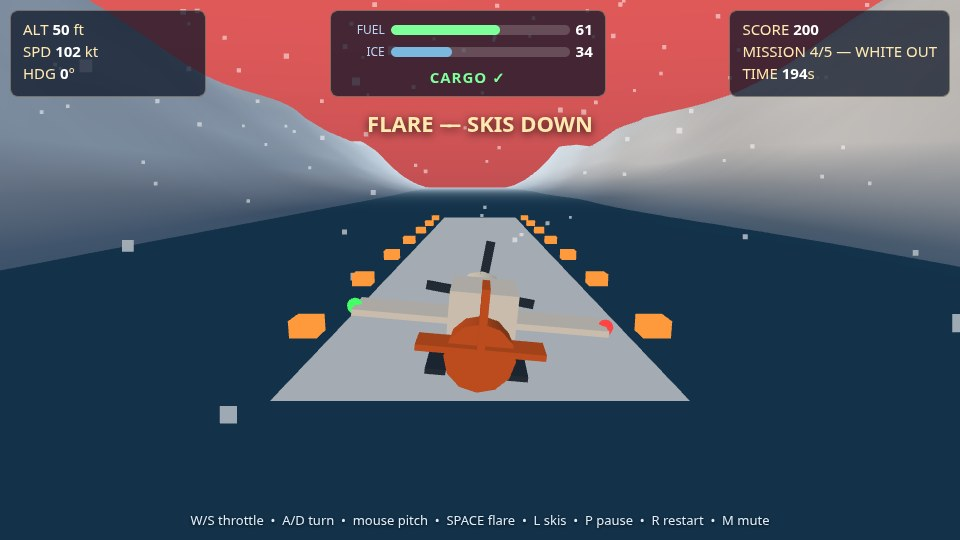
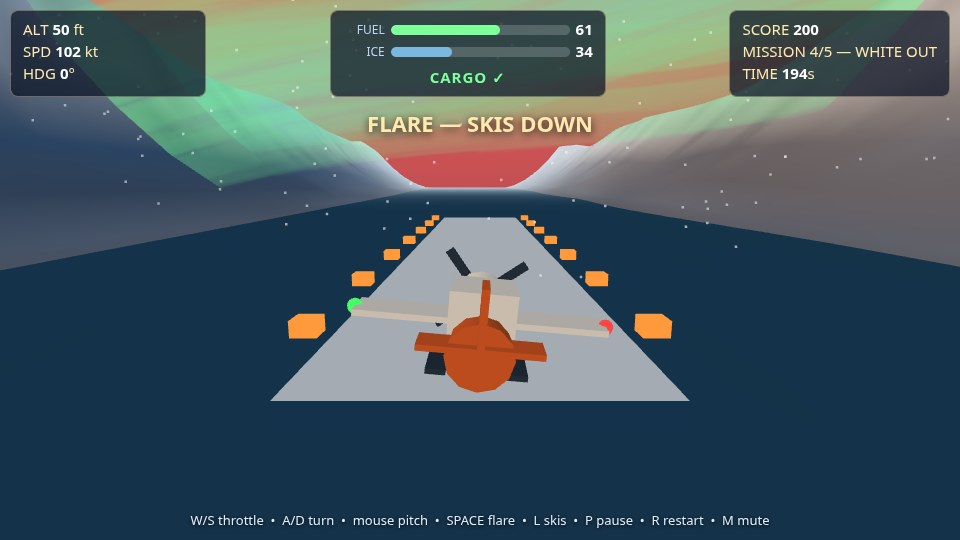
V3 iteration: aurora visible in every shot, fjord walls with strata + dawn light, win card no longer hides the parked plane
- Aurora ribbons now hang ahead of the plane across the flight line
  (was: along it, seen edge-on and invisible) with a wispy alpha
  texture and brighter opacity — visible in title, play, action, win.
- Terrain vertex colours: snow line + rock outcrops, darker strata
  bands, warm sunrise tint on sun-facing slopes, cool blue in shade.
- Win card top-aligned and compact (win-card); parked plane angled
  and visible below it on the ice strip; stale MISSION 5 banner cleared
  in the win staging; HUD top hidden on the win screen (was overlapping
  the card). Snowfall fixed pixel size (was: near-camera flakes blew up
  into giant white squares).
- No mechanic, balance, HUD-layout (play) or control changes; vendor
  three.js untouched. Verify 12/12, held-out bench 4/5.

diff --git a/game/src/render.js b/game/src/render.js
@@ -30,6 +30,42 @@ function makeCloudTexture() {
   return tex;
 }
 
+// Wispy curtain alpha for the aurora ribbons: soft horizontal streaks
+// (fixed positions, so every run paints the same sky) fading out at the
+// top and bottom edges. White with alpha — the material colour tints it.
+function makeAuroraTexture() {
+  const c = document.createElement('canvas');
+  c.width = 256;
+  c.height = 128;
+  const g = c.getContext('2d');
+  g.clearRect(0, 0, 256, 128);
+  for (let i = 0; i < 22; i++) {
+    const x = (i * 67.3) % 256;
+    const y = 34 + ((i * 41.7) % 64);
+    const w = 40 + ((i * 29.1) % 60);
+    const h = 6 + ((i * 13.7) % 10);
+    const a = 0.25 + 0.45 * Math.abs(Math.sin(i * 1.7));
+    const grad = g.createRadialGradient(x, y, 0, x, y, w);
+    grad.addColorStop(0, `rgba(255,255,255,${a})`);
+    grad.addColorStop(1, 'rgba(255,255,255,0)');
+    g.fillStyle = grad;
+    g.beginPath();
+    g.ellipse(x, y, w, h, 0, 0, Math.PI * 2);
+    g.fill();
+  }
+  // Vertical envelope: the curtain dissolves at its top and bottom edge.
+  g.globalCompositeOperation = 'destination-in';
+  const env = g.createLinearGradient(0, 0, 0, 128);
+  env.addColorStop(0, 'rgba(255,255,255,0)');
+  env.addColorStop(0.25, 'rgba(255,255,255,0.9)');
+  env.addColorStop(0.6, 'rgba(255,255,255,1)');
+  env.addColorStop(0.85, 'rgba(255,255,255,0.55)');
+  env.addColorStop(1, 'rgba(255,255,255,0)');
+  g.fillStyle = env;
+  g.fillRect(0, 0, 256, 128);
+  return new THREE.CanvasTexture(c);
+}
+
 export function createRenderer(canvas) {
   const renderer = new THREE.WebGLRenderer({ canvas, antialias: true });
   renderer.setSize(960, 540, false);
@@ -76,25 +112,30 @@ export function createRenderer(canvas) {
   scene.add(sunDisc);
 
   // --- aurora: three ribbons waving slowly ---------------------------------
+  // The ribbons hang in the sky AHEAD of the plane (re-positioned every
+  // frame in render(), so they are in view on every screen), spanning
+  // across the flight line — never along it, or the chase camera sees
+  // them edge-on and they vanish. A wispy alpha texture shapes each
+  // curtain so it reads as light, not a flat green slab.
+  const auroraTex = makeAuroraTexture();
   const auroras = [];
   const auroraColors = [PALETTE.auroraGreen, PALETTE.auroraTeal, PALETTE.auroraViolet];
+  const auroraBaseOpacity = [0.55, 0.45, 0.35];
   for (let i = 0; i < 3; i++) {
-    const geo = new THREE.PlaneGeometry(900, 70, 48, 6);
+    const geo = new THREE.PlaneGeometry(700 + i * 100, 150 - i * 12, 48, 6);
     const mat = new THREE.MeshBasicMaterial({
       color: auroraColors[i],
+      map: auroraTex,
       transparent: true,
-      opacity: 0.30 - i * 0.06,
+      opacity: auroraBaseOpacity[i],
       side: THREE.DoubleSide,
       depthWrite: false,
-      blending: THREE.AdditiveBlending,
       fog: false,
     });
     const mesh = new THREE.Mesh(geo, mat);
-    mesh.position.set(300 + i * 180, 150 + i * 32, -180 - i * 80);
-    mesh.rotation.x = -0.35;
-    mesh.rotation.z = 0.12 + i * 0.06;
     mesh.userData.base = geo.attributes.position.array.slice();
     mesh.userData.phase = i * 2.1;
+    mesh.userData.baseOpacity = auroraBaseOpacity[i];
     scene.add(mesh);
     auroras.push(mesh);
   }
@@ -105,25 +146,47 @@ export function createRenderer(canvas) {
   terrGeo.translate(1000, 0, 0);
   {
     const pos = terrGeo.attributes.position;
-    const colors = new Float32Array(pos.count * 3);
-    const snow = new THREE.Color(PALETTE.snow);
-    const rock = new THREE.Color(PALETTE.rock);
-    const tmp = new THREE.Color();
     for (let i = 0; i < pos.count; i++) {
       const x = pos.getX(i);
       const z = pos.getZ(i);
-      const h = terrainHeight(x, z);
-      pos.setY(i, h);
-      const t = Math.max(0, Math.min(1, h / 26));
-      tmp.copy(rock).lerp(snow, t);
-      // Slight sparkle variation so the snow reads as snow, not flat white.
+      pos.setY(i, terrainHeight(x, z));
+    }
+    terrGeo.computeVertexNormals();
+    // Colour AFTER the normals exist: the dawn light is part of the look.
+    // Snow above ~52, rock below ~26, rock outcrops poking through the
+    // snow where the patch noise is high, darker strata bands on the rock,
+    // warm sunrise tint on sun-facing slopes, cool blue in the shade —
+    // so the cliff walls read as layered fjord, not flat grey.
+    const nrm = terrGeo.attributes.normal;
+    const colors = new Float32Array(pos.count * 3);
+    const snow = new THREE.Color(PALETTE.snow);
+    const rock = new THREE.Color(PALETTE.rock);
+    const warm = new THREE.Color(0xffc890);
+    const cool = new THREE.Color(0x46648c);
+    const tmp = new THREE.Color();
+    const clamp01 = (v) => (v < 0 ? 0 : v > 1 ? 1 : v);
+    for (let i = 0; i < pos.count; i++) {
+      const x = pos.getX(i);
+      const z = pos.getZ(i);
+      const h = pos.getY(i);
+      const patch = Math.sin(x * 0.11 + z * 0.073) * Math.sin(x * 0.031 - z * 0.057 + 2.0);
+      let snowT = clamp01((h - 26) / 26);
+      if (h > 20) snowT = clamp01(snowT - Math.max(0, patch) * 0.35);
+      tmp.copy(rock).lerp(snow, snowT);
+      if (snowT < 0.85) {
+        const band = Math.floor(h / 8) % 2 === 0 ? 1.0 : 0.8;
+        tmp.multiplyScalar(band);
+      }
+      const sunDot =
+        nrm.getX(i) * -0.62 + nrm.getY(i) * 0.38 + nrm.getZ(i) * -0.48;
+      if (sunDot > 0) tmp.lerp(warm, Math.min(0.32, sunDot * 0.32));
+      else tmp.lerp(cool, Math.min(0.35, -sunDot * 0.3));
       const v = 0.94 + 0.06 * Math.sin(x * 0.35 + z * 0.21);
       colors[i * 3] = tmp.r * v;
       colors[i * 3 + 1] = tmp.g * v;
       colors[i * 3 + 2] = tmp.b * v;
     }
     terrGeo.setAttribute('color', new THREE.BufferAttribute(colors, 3));
-    terrGeo.computeVertexNormals();
   }
   const terrain = new THREE.Mesh(
     terrGeo,
@@ -283,9 +346,11 @@ export function createRenderer(canvas) {
     snowSeed.push({ x: Math.random() * 300 - 150, y: Math.random() * 120, z: Math.random() * 300 - 150, v: 6 + Math.random() * 8 });
   }
   snowGeo.setAttribute('position', new THREE.BufferAttribute(snowPos, 3));
+  // Fixed pixel size: with size attenuation a flake drifting right past
+  // the chase camera blew up into a giant white square in the win shot.
   const snowPts = new THREE.Points(
     snowGeo,
-    new THREE.PointsMaterial({ color: 0xffffff, size: 1.7, transparent: true, opacity: 0 }),
+    new THREE.PointsMaterial({ color: 0xffffff, size: 2.5, sizeAttenuation: false, transparent: true, opacity: 0 }),
   );
   snowPts.frustumCulled = false;
   scene.add(snowPts);
@@ -352,7 +417,7 @@ export function createRenderer(canvas) {
   function drawCard(s) {
     if (s.screen === lastScreen) return;
     lastScreen = s.screen;
-    card.className = s.screen === SCREEN.title ? 'top' : '';
+    card.className = s.screen === SCREEN.title || s.screen === SCREEN.win ? 'top' : '';
     if (s.screen === SCREEN.play || s.screen === SCREEN.pause) {
       if (s.screen === SCREEN.pause) {
         card.innerHTML =
@@ -378,8 +443,10 @@ export function createRenderer(canvas) {
         '<p>SCORE <b>' + Math.round(s.score) + '</b> &nbsp;•&nbsp; RINGS ' + s.ringsCollected + ' &nbsp;•&nbsp; FUEL ' + Math.round(s.fuel) + '</p>' +
         '<p class="go">▶ PRESS ENTER — NEXT MISSION</p></div>';
     } else if (s.screen === SCREEN.win) {
+      // Smaller, top-aligned card: the parked plane, the ice strip and
+      // the aurora stay visible below it instead of hiding behind it.
       html =
-        '<div class="card"><h1>CARGO DELIVERED</h1><p class="tag">dawn over the fjords — all five freights home</p>' +
+        '<div class="card win-card"><h1>CARGO DELIVERED</h1><p class="tag">dawn over the fjords — all five freights home</p>' +
         '<p class="stars">★★★★★</p>' +
         '<p>FINAL SCORE <b>' + Math.round(s.score) + '</b> &nbsp;•&nbsp; TIME ' + Math.round(s.time) + 's &nbsp;•&nbsp; BEST ' + Math.round(Math.max(s.best || 0, s.score)) + '</p>' +
         '<p class="go">▶ PLAY AGAIN — PRESS R</p></div>';
@@ -433,18 +500,29 @@ export function createRenderer(canvas) {
     });
     for (let i = md.clouds.length; i < cloudSprites.length; i++) cloudSprites[i].visible = false;
 
-    // Aurora ribbons wave.
-    for (const a of auroras) {
+    // Aurora ribbons wave — and hang in the sky AHEAD of the plane, across
+    // the flight line, so the chase camera always sees them in the upper
+    // frame (title, play, action and win alike). The ribbon's long axis
+    // runs across the heading: rotation.y = -(heading + PI/2).
+    const ah = s.heading;
+    const afx = Math.cos(ah);
+    const afz = Math.sin(ah);
+    for (let i = 0; i < auroras.length; i++) {
+      const a = auroras[i];
+      const dist = 170 + i * 90;
+      a.position.set(s.x + afx * dist, s.y + 60 + i * 26, s.z + afz * dist);
+      a.rotation.set(-0.12, -ah - Math.PI / 2, 0.05 + i * 0.05);
       const pos = a.geometry.attributes.position;
       const base = a.userData.base;
-      for (let i = 0; i < pos.count; i++) {
-        const bx = base[i * 3];
-        const by = base[i * 3 + 1];
-        pos.setZ(i, Math.sin(bx * 0.012 + t * 0.6 + a.userData.phase) * 9);
-        pos.setY(i, by + Math.sin(bx * 0.02 + t * 0.9 + a.userData.phase) * 5);
+      for (let j = 0; j < pos.count; j++) {
+        const bx = base[j * 3];
+        const by = base[j * 3 + 1];
+        pos.setZ(j, Math.sin(bx * 0.012 + t * 0.6 + a.userData.phase) * 9);
+        pos.setY(j, by + Math.sin(bx * 0.02 + t * 0.9 + a.userData.phase) * 5);
       }
       pos.needsUpdate = true;
-      a.material.opacity = 0.22 + 0.1 * Math.sin(t * 0.35 + a.userData.phase);
+      a.material.opacity =
+        a.userData.baseOpacity + 0.08 * Math.sin(t * 0.35 + a.userData.phase);
     }
 
     // Plane pose.
@@ -534,7 +612,7 @@ export function createRenderer(canvas) {
     const fl = s.floaters.map((f) => '<div style="color:' + f.color + '">' + f.text + '</div>').join('');
     if ($('hud-floaters').innerHTML !== fl) $('hud-floaters').innerHTML = fl;
     $('hud-hint').style.display = s.screen === SCREEN.play ? 'block' : 'none';
-    $('hud-top').style.display = s.screen === SCREEN.title ? 'none' : 'flex';
+    $('hud-top').style.display = s.screen === SCREEN.title || s.screen === SCREEN.win ? 'none' : 'flex';
     drawCard(s);
   }
 

diff --git a/game/src/shots.js b/game/src/shots.js
@@ -102,10 +102,17 @@ export function stageShot(name, world) {
     w.ringsCollected = 7;
     w.mission = 4;
     const dest = w.missionData.dest;
-    w.x = dest.x + 10;
+    // Parked slightly angled on the strip (the win card is top-aligned
+    // now, so the plane, the ice strip and the aurora show below it).
+    // Clear the stale mission banner from the last nextMission() call —
+    // in a real game it decayed long before the win; frozen shot mode
+    // would otherwise leave it floating over the card.
+    w.x = dest.x + 15;
     w.y = 1.3;
     w.z = dest.z;
-    w.heading = 0;
+    w.heading = 0.28;
+    w.banner = '';
+    w.bannerUntil = 0;
     w.pitch = 0;
     w.speed = 0;
     w.throttle = 0;

diff --git a/game/index.html b/game/index.html
@@ -41,6 +41,9 @@
   #card .card { background: rgba(8, 14, 32, 0.78); border: 2px solid rgba(255, 217, 122, 0.55);
     border-radius: 14px; padding: 26px 38px; text-align: center; max-width: 620px;
     box-shadow: 0 8px 40px rgba(0, 0, 0, 0.5); }
+  #card .card.win-card { padding: 18px 30px; max-width: 560px; }
+  #card .card.win-card h1 { font-size: 36px; }
+  #card .card.win-card .stars { font-size: 28px; margin: 4px 0; }
   #card h1 { margin: 0 0 6px; font-size: 44px; letter-spacing: 4px; color: #ffe9b0; }
   #card .tag { margin: 0 0 12px; font-size: 17px; color: #bcd6f5; font-style: italic; }
   #card .judge { color: #7dff9a; font-size: 16px; }
